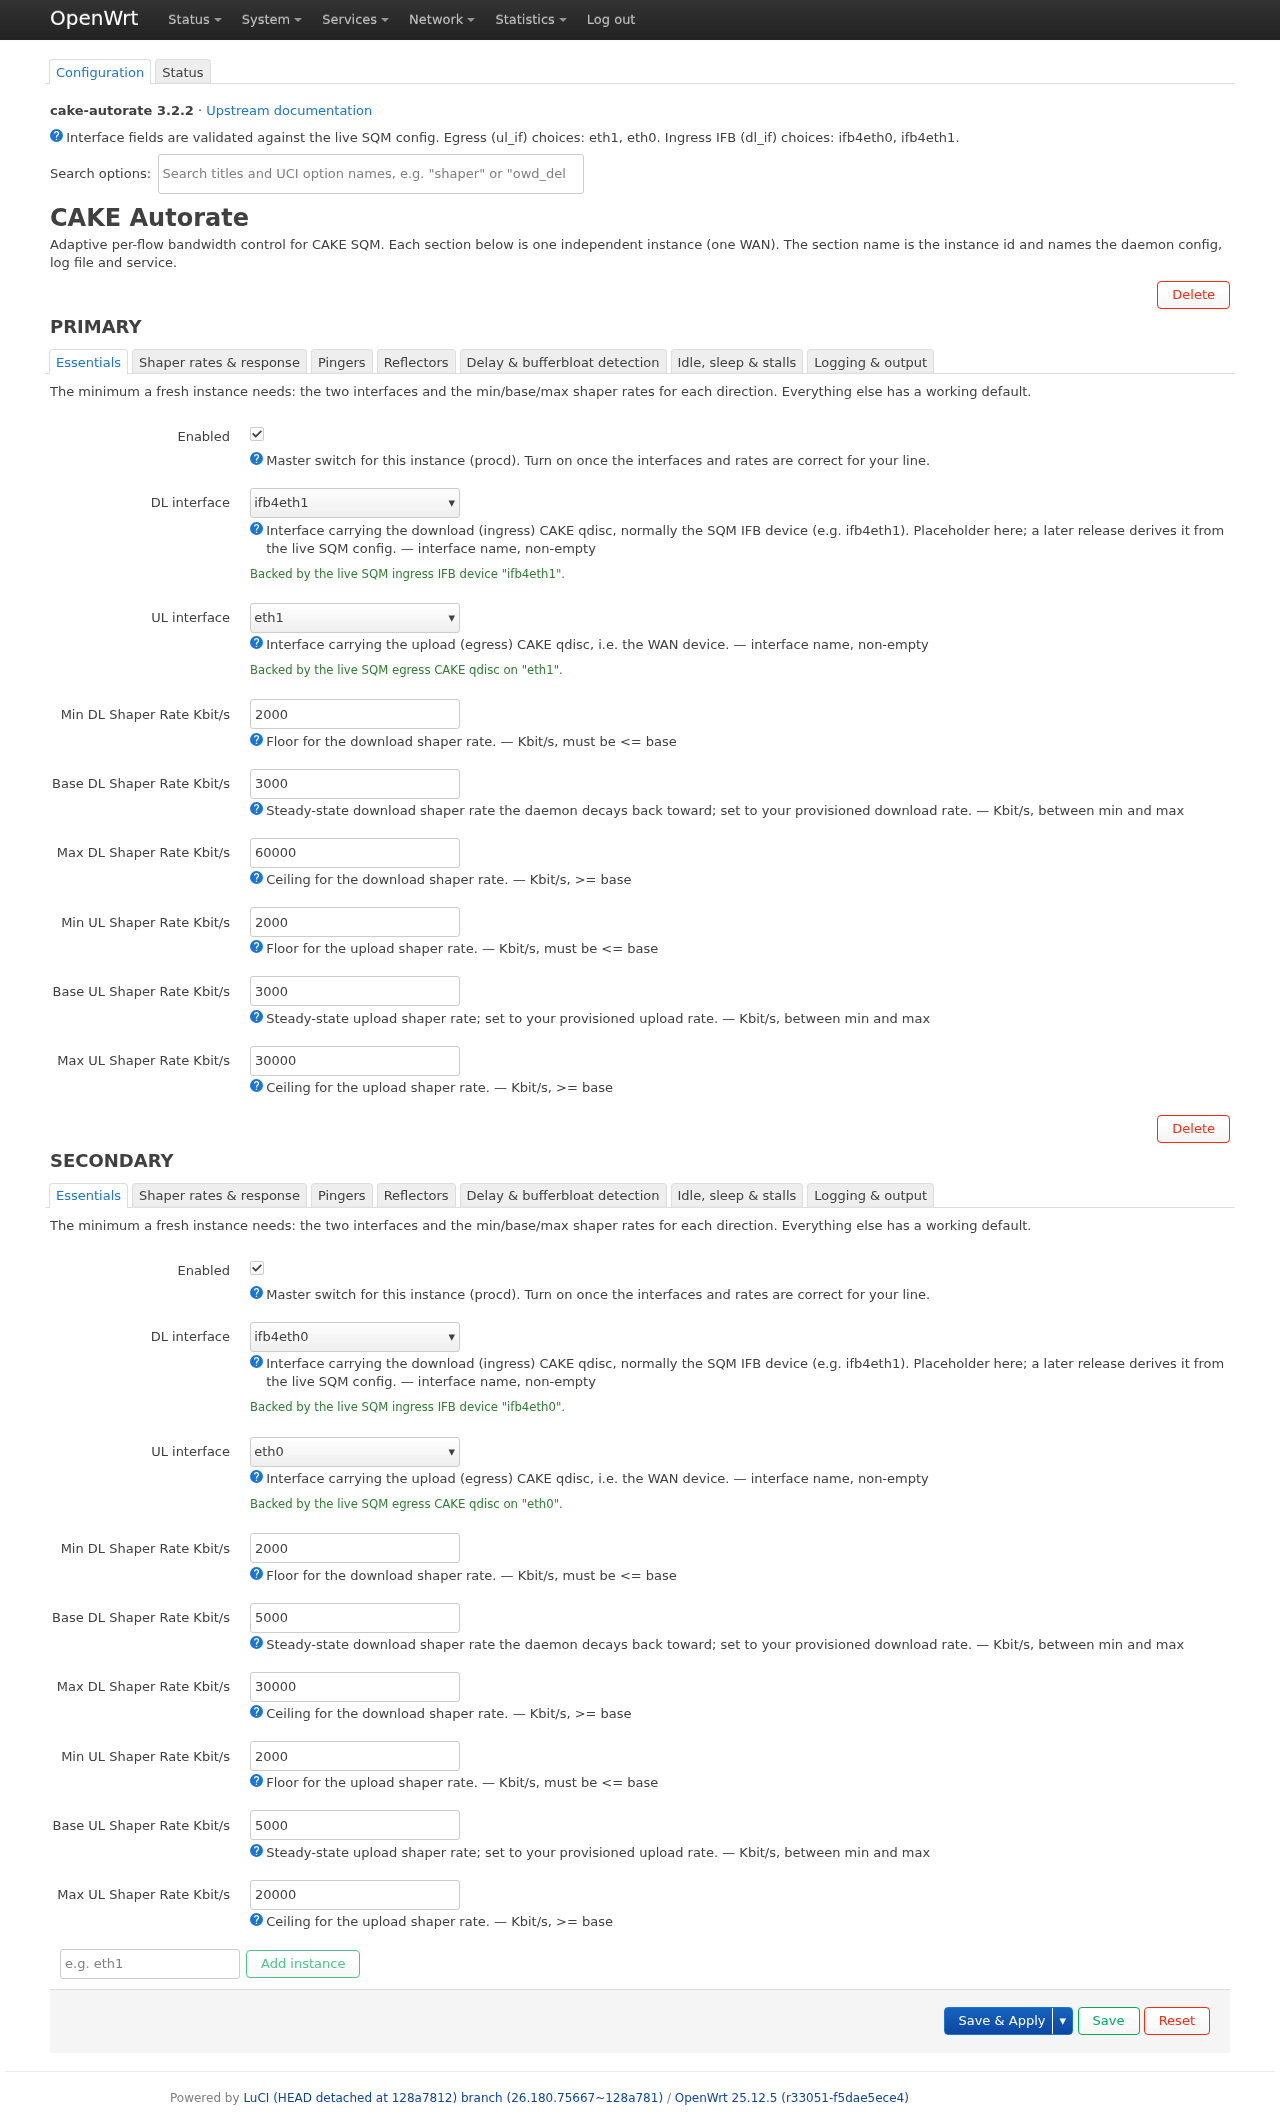
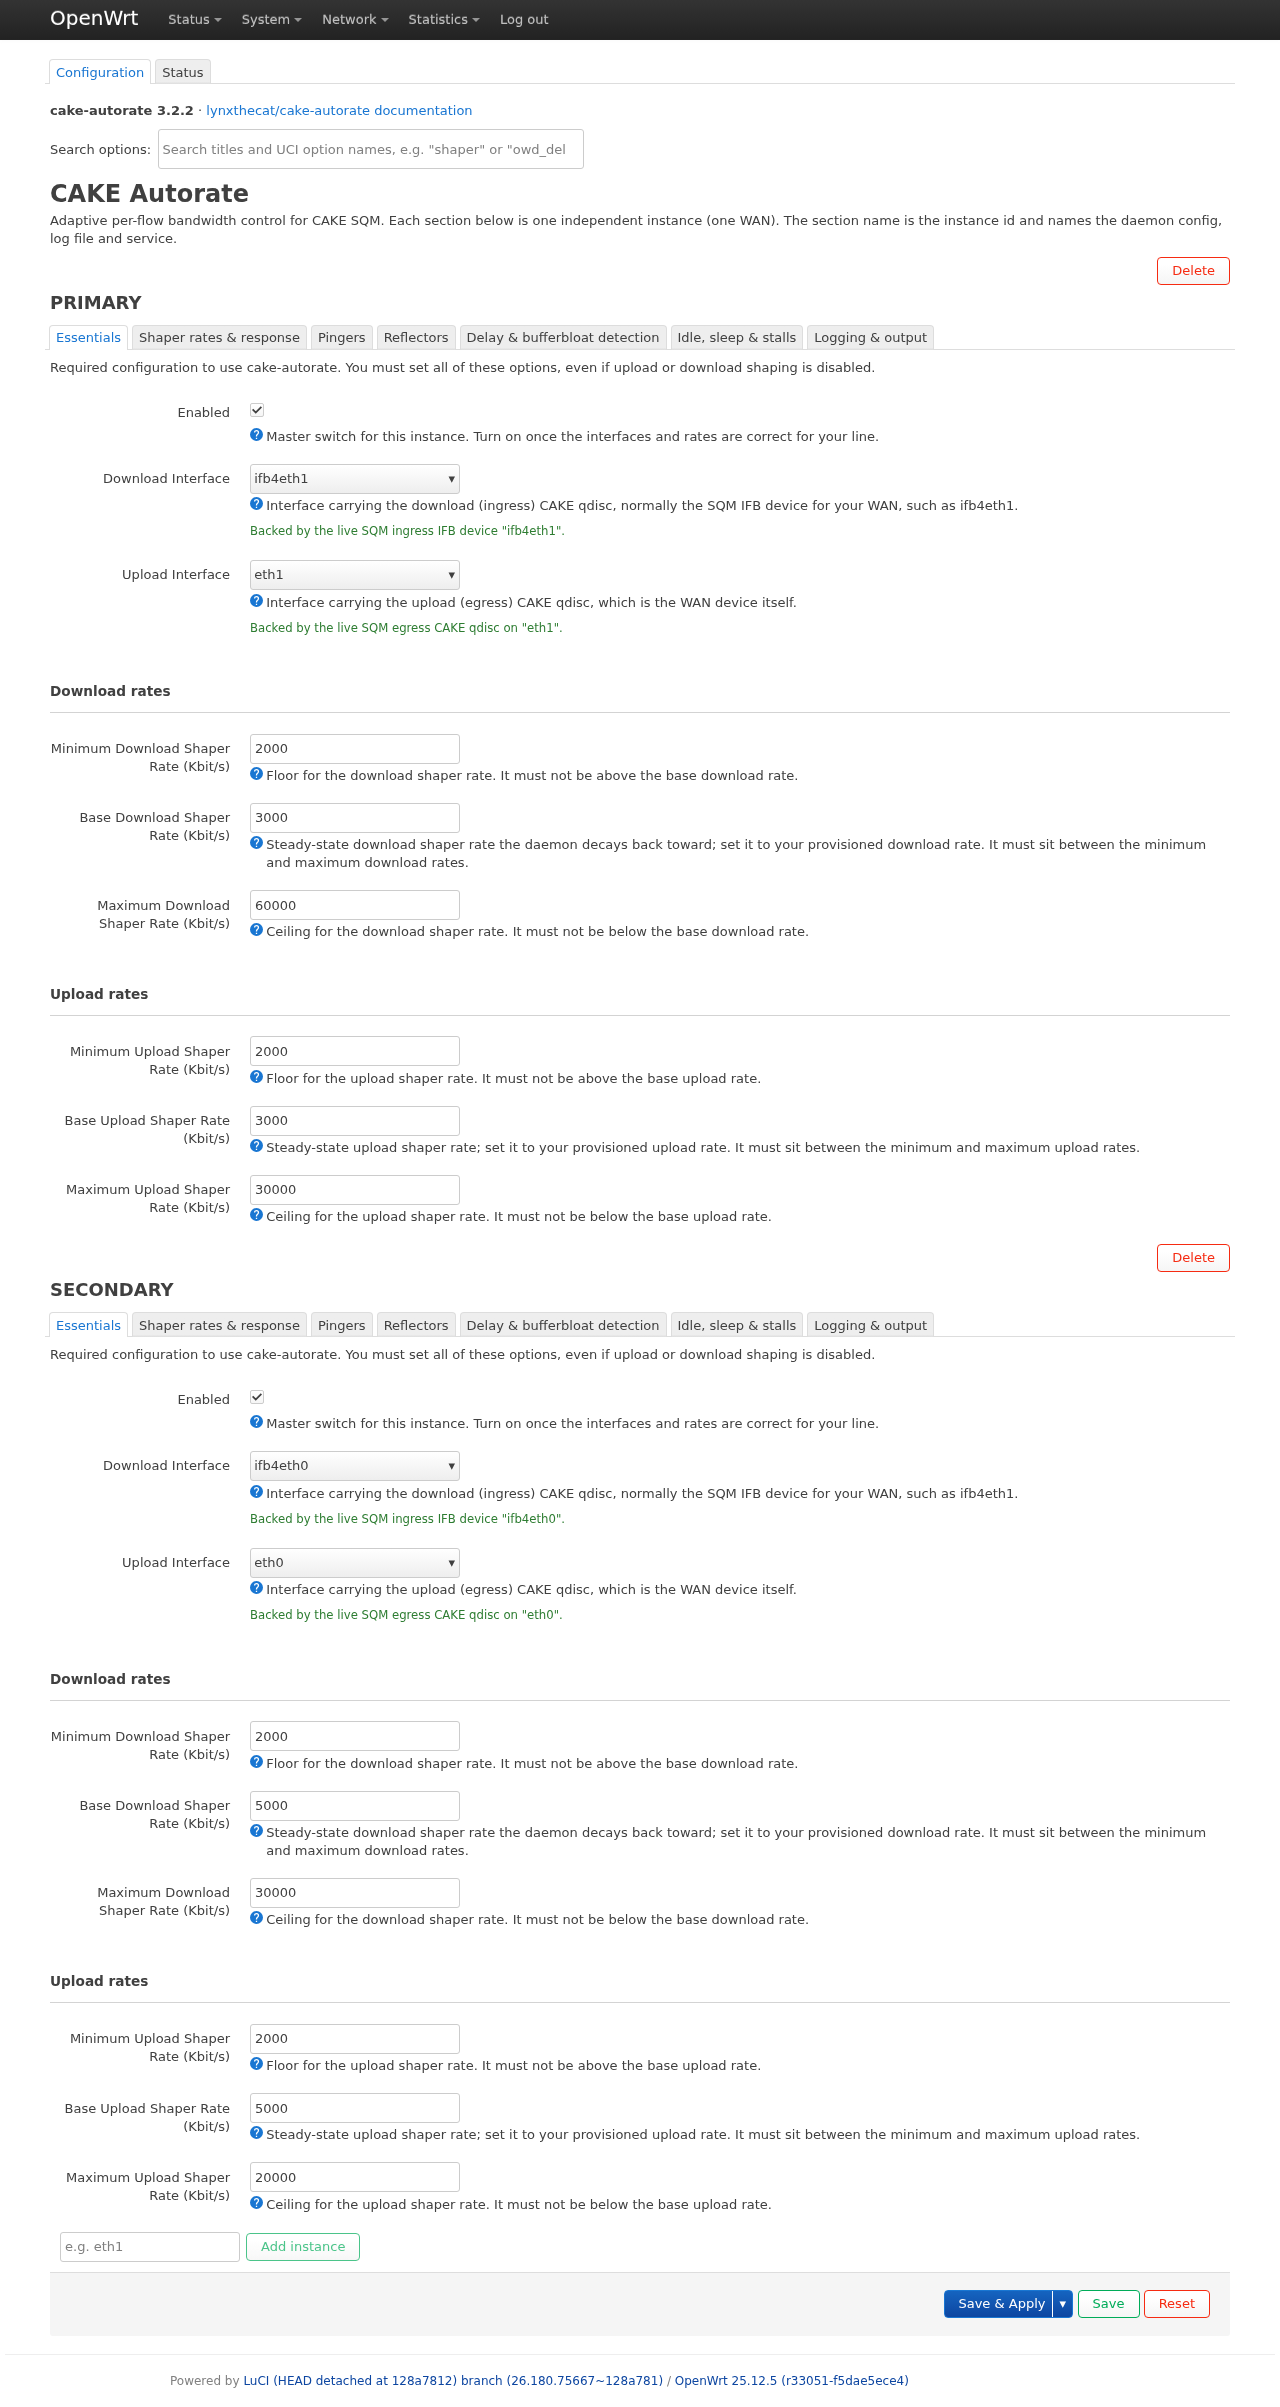
docs: refresh the screenshots and add the statistics dashboard
Every committed screenshot showed the old form: DL/UL titles, "Min DL
Shaper Rate Kbit/s", " — 0 or 1" under checkboxes, the duplicated SQM
interface listing. Regenerate all five from a live VM, and add a sixth
for the collectd dashboard, which the docs described in prose and had
never shown.

Two claims come out with the images, because both were wrong:

- "the stock luci-app-statistics setup does [Include /etc/collectd/
  conf.d]". It does not. The /etc/config/luci_statistics shipped in
  25.12.5 has that line commented out -- checked in the published apk --
  so the package's drop-in is never read and the CAKE Autorate graphs
  stay empty on a fresh install however long collectd runs. The caveat
  now says so and gives the one-liner, and the LuCI Makefile's comment
  stops claiming luci-app-statistics wires this up for us.
- "no extra setup" for the graphs, in the same reference. Installing the
  package does put the tab there; filling it takes that setting.

docs/testing.md gains the CA_UI_STATISTICS=1 regeneration path, and
tests/ui/README.md the warning that the docs project must not share a VM
with the visual one -- the visual specs delete their way down to an empty
config on purpose, so a docs run after them photographs the wreckage.

Claude-Session: https://claude.ai/code/session_016KgHKnpf3KQRgEKpaS326S

diff --git a/docs/configuration.md b/docs/configuration.md
@@ -24,13 +24,16 @@ second section for a second WAN (see **Multi-instance**, below).
 
 ## Essentials first
 
-A fresh instance needs only its two interfaces and the min/base/max shaper rates
-for each direction — **everything else has a working default**. In LuCI these
-live on the **Essentials** tab; in UCI they are the first block of the section:
+Every instance needs its two interfaces and the minimum/base/maximum shaper
+rates for **both** directions — including a direction whose shaping you have
+turned off. Everything else has a working default. In LuCI these live on the
+**Essentials** tab, where the rates sit under a *Download rates* and an *Upload
+rates* heading; in UCI they are the first block of the section:
 
-![The Essentials tab: the Enabled switch, the DL/UL interface pickers each
-confirming which live SQM device backs them, and the six min/base/max shaper
-rate fields with their units and ordering rules](images/config-essentials.png)
+![The Essentials tab: the Enabled switch, the download and upload interface
+pickers each confirming which live SQM device backs them, and the six shaper
+rate fields under their Download rates and Upload rates
+headings](images/config-essentials.png)
 
 ```
 config cake-autorate 'primary'
@@ -68,7 +71,7 @@ you can jump straight to an option by name:
 
 | Group (tab) | What it covers |
 | --- | --- |
-| **Essentials** | Interfaces + min/base/max rates (above). |
+| **Essentials** | Interfaces + minimum/base/maximum rates for both directions (above). |
 | **Shaper rates & response** | How aggressively the rate moves up/down on load and bufferbloat (`shaper_rate_adjust_*`, `high_load_thr`, refractory periods). |
 | **Pingers** | Probe binary (`fping`), pinger count and ping interval. |
 | **Reflectors** | The ICMP target pool and how misbehaving reflectors are detected and rotated. |
@@ -190,12 +193,15 @@ text.
 
 ## Reading the statistics graphs
 
-`luci-app-cake-autorate` ships a collectd graph definition, so once the package
-is installed and collectd is running you get RRD graphs with **no extra setup**.
+`luci-app-cake-autorate` ships a collectd graph definition and depends on
+`luci-app-statistics`, so the graphs are there as soon as the package is. They
+need **one** setting to start receiving data — see [the caveat
+below](#statistics-caveat-collectd-must-be-told-to-read-the-drop-in) — and then:
 
 1. Go to **Statistics → Graphs** (from `luci-app-statistics`).
-2. Select the **CAKE Autorate** plugin. There is **one panel per instance** (the
-   collectd plugin instance is the cake-autorate instance id, e.g. `primary`).
+2. Select the **CAKE Autorate** plugin. Each instance gets its own **set of
+   three panels** (the collectd plugin instance is the cake-autorate instance
+   id, e.g. `primary`, and appears in every panel title).
 3. Each panel graphs, per direction (download/upload):
    - **achieved rate** and **CAKE shaper rate** (Kbit/s) — watch the shaper rate
      track load: it climbs toward `max` under sustained high load and decays back
@@ -203,15 +209,44 @@ is installed and collectd is running you get RRD graphs with **no extra setup**.
    - **average one-way-delay delta** (µs) — the latency signal that drives the
      controller;
    - **load / bufferbloat state** — a gauge where `0`/`1`/`2` = idle/low/high
-     load and a value `>= 10` means bufferbloat is currently flagged (the load
-     level is the value mod 10).
+     load and a value of 10 or more means bufferbloat is currently flagged (the
+     load level is the value mod 10).
 
-### Statistics caveat
+![The Statistics graph page on the CAKE Autorate tab: shaper and achieved rates
+plotted with upload mirrored below the axis, the one-way-delay delta and the
+load state, one set of panels per instance](images/statistics-graphs.png)
+
+Upload series are drawn **below** the axis in the classic SQM mirror layout, so
+the two directions read apart at a glance.
+
+### Statistics caveat: collectd must be told to read the drop-in
 
 The package drops its collectd config at `/etc/collectd/conf.d/cake-autorate.conf`
 and loads the `exec` plugin there itself (the `tail` plugin cannot map the
-string load-condition to a number). For this to take effect, collectd's main
-config must **Include `/etc/collectd/conf.d`** — the stock
-`luci-app-statistics` setup does. If you run a hand-rolled collectd config that
-does not include that directory, add it, or the CAKE Autorate graphs will not
-appear even though the daemon is logging fine.
+string load-condition to a number). For that to take effect, collectd's main
+config must **Include `/etc/collectd/conf.d`** — and on OpenWrt 25.12.5 it does
+not.
+
+`luci-app-statistics` replaces `/etc/collectd.conf` with a symlink to a config
+it generates from `/etc/config/luci_statistics`, and the config file it ships
+has the `Include` line **commented out**:
+
+```
+config statistics 'collectd'
+	option BaseDir '/var/run/collectd'
+#	option Include '/etc/collectd/conf.d'
+```
+
+So on a fresh install the drop-in is never read, and the **CAKE Autorate** tab
+under Statistics → Graphs stays empty however long collectd runs — even though
+the daemon is logging fine and the reader script works. Uncomment it, or set it
+from the command line, and restart:
+
+```sh
+uci set luci_statistics.collectd.Include='/etc/collectd/conf.d'
+uci commit luci_statistics
+/etc/init.d/luci_statistics restart
+```
+
+The same applies to a hand-rolled collectd config that does not include that
+directory.

diff --git a/README.md b/README.md
@@ -15,7 +15,7 @@ bandwidth up and down to keep latency low without giving away throughput.
 | --- | --- |
 | `cake-autorate` | The upstream **bash** daemon (pinned to tag **v3.2.2**) plus the OpenWrt glue: `/etc/config/cake-autorate` UCI, a procd init script (one supervised daemon per enabled instance), the UCI→native config bridge, an rpcd backend, and a collectd `exec` statistics source. |
 | `luci-app-cake-autorate` | The LuCI UI: an Essentials-first configuration form with SQM-validated interface pickers, plus a live status view. Depends on `cake-autorate` + `luci-base`. |
-| Statistics graphs | Shipped inside `luci-app-cake-autorate`: a collectd RRD definition (`cake_autorate.js`) that renders the daemon's achieved/shaper rates, OWD deltas and load state under **Statistics → Graphs**, one panel per instance. |
+| Statistics graphs | Shipped inside `luci-app-cake-autorate`: a collectd RRD definition (`cake_autorate.js`) that renders the daemon's achieved/shaper rates, OWD deltas and load state under **Statistics → Graphs**, as one set of three panels per instance. |
 
 Both packages are **noarch** (`PKG_ARCH:=all` / pure shell + JS payload), so a
 single build serves every target.
@@ -26,12 +26,15 @@ single build serves every target.
 
 ## What it looks like
 
-**Network → CAKE Autorate → Configuration.** A fresh instance needs only its two
-interfaces and the min/base/max rates; the interface pickers are populated from
-the live SQM config and confirm what they are backed by:
+**Network → CAKE Autorate → Configuration.** The Essentials tab is the
+configuration an instance cannot run without: its two interfaces, then a
+download and an upload rate trio under their own headings. The interface pickers
+are populated from the live SQM config and confirm what they are backed by:
 
-![The Essentials tab of the LuCI configuration form, showing the DL/UL interface
-pickers with their SQM validation hints and the six shaper-rate fields](docs/images/config-essentials.png)
+![The Essentials tab of the LuCI configuration form, showing the download and
+upload interface pickers with their SQM validation hints, and the six
+shaper-rate fields under their Download rates and Upload rates
+headings](docs/images/config-essentials.png)
 
 **Network → CAKE Autorate → Status.** A live per-instance readout, refreshed
 every 3 seconds from the running daemon, with start/stop/restart controls per
@@ -45,6 +48,16 @@ The daemon only samples while there is traffic: with `enable_sleep_function`
 idle link and stops reporting until traffic returns. The table then holds the
 last sample it did report, and **Last update** says how long ago that was —
 `16:25:36 (4m 12s ago)`. That is normal on an idle line, not a stalled service.
+
+**Statistics → Graphs → CAKE Autorate.** One panel set per instance, graphing
+the shaper rate against the achieved rate, the one-way-delay delta driving the
+controller, and the load/bufferbloat state. Installing the package is enough to
+put the tab there; one collectd setting is what starts filling it (see the
+[statistics caveat](docs/configuration.md#statistics-caveat-collectd-must-be-told-to-read-the-drop-in)):
+
+![The luci-app-statistics graph page on the CAKE Autorate tab, showing the
+shaper and achieved rates for download and upload, the one-way-delay delta and
+the load state, one set of panels per instance](docs/images/statistics-graphs.png)
 
 More screenshots — the grouped advanced tabs, the option search and a two-WAN
 setup — are in the [configuration reference](docs/configuration.md). All of them

diff --git a/docs/testing.md b/docs/testing.md
@@ -236,6 +236,31 @@ cd tests/ui
 npx playwright test --project=docs      # writes docs/images/*.png
 ```
 
+One image needs more than that. `statistics-graphs.png` shows the collectd
+dashboard, and while `luci-app-statistics` is always installed (the LuCI app
+depends on it), a serve VM has no `cake_autorate` RRDs behind it: collectd is
+not told to read the package's drop-in, and a VM minutes old has nothing to
+graph anyway. Turn that path on for the docs run:
+
+```sh
+cd tests/ui
+CA_UI_STATISTICS=1 npx playwright test --project=docs
+```
+
+That makes serve mode set the `Include /etc/collectd/conf.d` that
+luci-app-statistics' generated config omits (see
+[`configuration.md`](configuration.md#statistics-caveat-collectd-must-be-told-to-read-the-drop-in)), put real load on the
+primary WAN so the shaper moves, and collect for `CA_UI_STATS_WARMUP_S` seconds
+(default 600) **before** reporting the VM ready — so the run opens on a
+dashboard with data in it rather than racing collectd's first sample. Budget
+about ten minutes more wall-clock. Without the variable that one test **skips**,
+naming the variable in the skip reason; the other five images still regenerate.
+
+It also shortens collectd's interval and adds a 15-minute RRA, so a VM that is
+minutes old draws a readable graph instead of a sliver against an empty
+two-hour axis. Those are demo-box settings — the timespan dropdown in that
+screenshot therefore offers a `15min` span a stock install does not.
+
 It is a generator, not a test: it asserts nothing and compares against no
 baseline. **CI never runs it** (the workflow names `--project=functional` and
 `--project=visual` explicitly), so it cannot gate a build or rewrite committed

diff --git a/tests/ui/README.md b/tests/ui/README.md
@@ -20,6 +20,8 @@ project.
         02-instance-crud.spec.js
         03-essentials-only.spec.js
         04-status-controls.spec.js
+        05-rate-validation.spec.js
+      docs/screenshots.spec.js   generator for docs/images/ (asserts nothing)
       # task 12 adds:  visual/ + screenshot baselines
 
 `node_modules/`, `.runtime/`, `test-results/`, `playwright-report/` are
@@ -36,6 +38,13 @@ gitignored. Browser binaries live in `~/.cache/ms-playwright` (never in-repo).
     cd tests/ui
     npx playwright test --project=functional     # DOM/behaviour assertions
     npx playwright test --project=visual         # full-page screenshot diffs
+    npx playwright test --project=docs           # regenerates docs/images/*.png
+
+Run `docs` on its own, and never after `visual`: the visual specs delete their
+way down to an empty config on purpose (the VM is thrown away afterwards), so a
+docs run sharing that VM would photograph the wreckage. Its statistics
+screenshot additionally needs `CA_UI_STATISTICS=1` — see
+[`docs/testing.md`](../../docs/testing.md#documentation-screenshots).
 
 Requires KVM (the suite boots a QEMU VM). Without a live LuCI every spec
 **skips** (never fails) — see "No live LuCI" below. Set `CA_IT_REQUIRE_KVM=1` to
